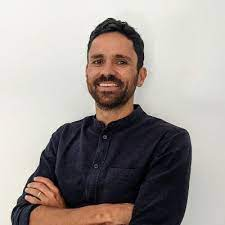
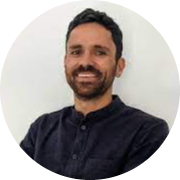
change style

diff --git a/index.html b/index.html
@@ -3,73 +3,97 @@
 
 <head>
   <meta charset="utf-8">
-  <title>🎉 Andres' Personal Site</title>
+  <title>Andrés Arau</title>
+
+  <link rel="stylesheet" type="text/css " href="css/styles.css">
+  <link rel="icon" href="images/pulpo-circle.png">
+  <link href="https://fonts.googleapis.com/css2?family=IBM+Plex+Mono:wght@300&family=Montserrat:wght@300&display=swap" rel="stylesheet">
+
 </head>
 
 <body>
-  <table cellspacing="10">
-    <tr>
-      <td><img src="https://pbs.twimg.com/profile_images/1416039838525108231/e3YDwKia.jpg" alt="andres profile picture"></td>
-      <td>
-        <h1>Andrés Arau</h1>
-        <a href="http://andresarau.com/" target="_blank">www.andresarau.com</a>
-        <p><em>Founder of <strong>Pulpo Data</strong> </em></p>
-        <p>I am interested in the use of innovative data management systems to inform large development programmes.</p>
-      </td>
-    </tr>
-  </table>
+
+
+  </div>
+
+  <div class="top-container container">
+
+    <div class="profile-container">
+
+
+      <img class="" src="images/andres.png" alt="andres-profile-img">
+      <h1 class=h1title>Andrés Arau</h1>
+      <p class="profile-subtitle">Data innovation in MEL systems</p>
+
+    </div>
+
+
+
+  </div>
   <hr>
-  <h3>Work experience 👷</h3>
-  <table cellspacing = "10">
-    <thead>
-      <tr>
-        <th>Dates</th>
-        <th>Work</th>
-      </tr>
-    </thead>
-    <tbody>
-      <tr>
-        <td><strong>2019-Present</strong></td>
-        <td>Indepent Data Scientist Consultant</td>
-      </tr>
-      <tr>
-        <td><strong>2015-2019</strong></td>
-        <td>Data Specialists at Oxford Policy Management</td>
-      </tr>
-      <tr>
-        <td><strong>2014-2015</strong></td>
-        <td>Evaluation Expert at C-230 Consultores</td>
-      </tr>
 
-    </tbody>
-  </table>
+  <div class="middle-container">
+    <div class="work-experience">
 
-  <hr>
-  <h3>Skills 🐱👤 </h3>
-  <table cellspacing="10">
+      <h2>Work Experience.</h2>
+      <table cellspacing="10">
 
-    <tr>
-      <td>Data Management</td>
-      <td>⭐⭐⭐⭐⭐</td>
-    </tr>
-    <tr>
-      <td>Monitoring and Evaluation</td>
-      <td>⭐⭐⭐⭐⭐</td>
+        <tbody>
+          <tr>
+            <td><strong>2019-Present</strong></td>
+            <td>Indepent Data Scientist Consultant</td>
+          </tr>
+          <tr>
+            <td><strong>2015-2019</strong></td>
+            <td>Data Specialists at Oxford Policy Management</td>
+          </tr>
+          <tr>
+            <td><strong>2014-2015</strong></td>
+            <td>Evaluation Expert at C-230 Consultores</td>
+          </tr>
+          <tr>
+            <td><strong>2013</strong></td>
+            <td>Intern at Inter-American Development Bank</td>
+          </tr>
+          <tr>
+            <td><strong>2009-2012</strong></td>
+            <td>M&E Officer at The Hunger Project</td>
+          </tr>
+          <tr>
+            <td><strong>2009-2010</strong></td>
+            <td>Evaluation Consultant at Ashoka</td>
+          </tr>
 
-    </tr>
-    <tr>
-      <td>Online Dashboard Development</td>
-      <td>⭐⭐⭐⭐</td>
-    </tr>
-    <tr>
-      <td>Web Development</td>
-      <td>⭐⭐</td>
-    </tr>
-  </table>
+        </tbody>
+      </table>
+    </div>
+    <div class="skills">
+      <h2>Skills</h2>
+      <p class="left">ArcGIS, CSS, Google Maps, Google Sheets, HTML5, Javascript, KoBoToolbox, Leaflet, MS Excel, NVivo, Power Bi, R, Shiny R, Stata, Survey Solutions, Ubuntu, and Zoho.</p>
 
-  <hr>
-  <p><a href="hobbies.html">My Hobbies</a></p>
-  <p><a href="contact-me.html">Contact me</a></p>
+      <h2>International Experience</h2>
+      <p class="left">Austria, Brazil, China, Colombia, Cote d’Ivoire, Ecuador, Gambia, Ghana, India, Kenya, Madagascar, Malawi, Mexico, Mozambique, Nigeria, Peru, Sierra Leone, South Africa, Uganda, United Kingdom, United States, Venezuela, and
+        Vietnam.</p>
+
+    </div>
+    <div class="contact-me">
+      <h2 class="contact-me">Get In Touch</h2>
+
+    </div>
+  </div>
+
+
+  <div class="bottom-container">
+    <a class="footer-link" href="mailto:andres.arau@pulpodata.org"  target="_blank"><img class="footer-img" src="images/email.png" alt=""></a>
+    <a class="footer-link" href="https://www.linkedin.com/in/andr%C3%A9s-arau-017b1127/" target="_blank"><img class="footer-img" src="images/linkedin.png" alt="" > </a>
+
+    <a class="footer-link" href="https://twitter.com/AndresArau"  target="_blank"><img class="footer-img" src="images/twitter.png" alt=""></a>
+    <a class="footer-link" href="http://andresarau.com/" target="_blank"><img class="footer-img" src="images/world-wide-web.png" alt=""></a>
+
+  </div>
+<div class="">
+  <p class="trademark">© 2021 Andres Arau.</p>
+</div>
 
 
 </body>

diff --git a/css/styles.css b/css/styles.css
@@ -1,0 +1,94 @@
+/********************************** TAGS **************************************/
+body {
+  margin: 0;
+  background-color: #f3f7f4;
+}
+
+/********************************* CLASS **************************************/
+.container {
+  height: 400px;
+}
+
+.top-container {
+  background-color: #f3f7f4;
+  text-align: center;
+}
+
+.profile-container {
+  position: relative;
+  top: 80px;
+}
+
+.skills{
+  margin-left: 25%;
+  margin-right: 25%;
+}
+.left{
+  text-align: left;
+
+}
+.middle-container {
+  text-align: center;
+}
+
+.bottom-container {
+  text-align: center;
+
+}
+
+.footer-link{
+  position: relative;
+  top:5px;
+  display: inline-block;
+
+}
+
+.contact-me{
+  margin-bottom: 5px;
+}
+.footer-img{
+    width: 20px;
+margin: 0 auto;
+}
+
+.trademark{
+  float: right;
+
+}
+/*************************pulpo************************************************/
+p, table, ul, form, a {
+  font-family: 'IBM Plex Mono', monospace;
+}
+
+td{
+  text-align: left;
+}
+
+table{
+  margin: 0 auto;
+}
+.profile-subtitle {
+  margin-top: 0;
+  font-weight: bolder;
+}
+
+h1, h3, h2 {
+  font-family: 'Montserrat', sans-serif;
+}
+
+h1 {
+  margin-top: 0;
+  color: #2B347C;
+}
+
+.h1title {
+  margin-bottom: 5px;
+}
+
+h3 {
+  color: #577590;
+}
+
+h2 {
+  color: #277DA1;
+}
